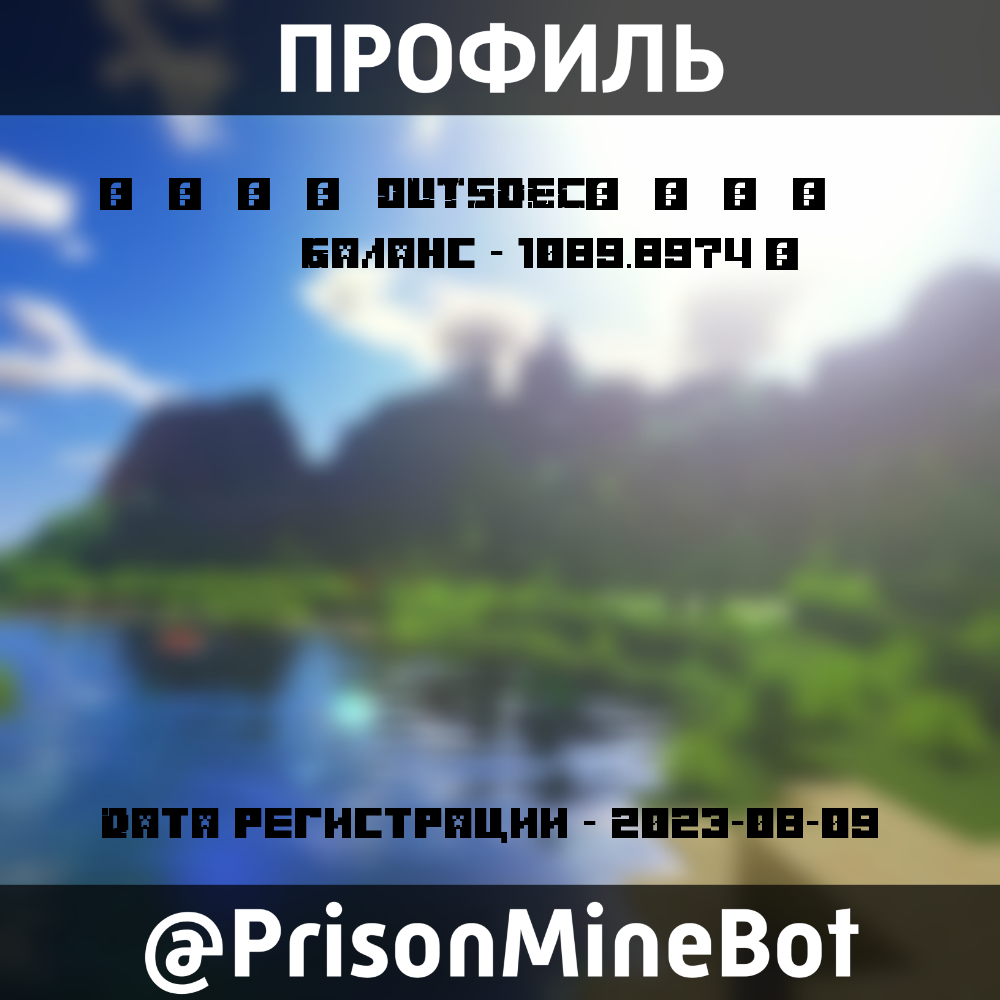
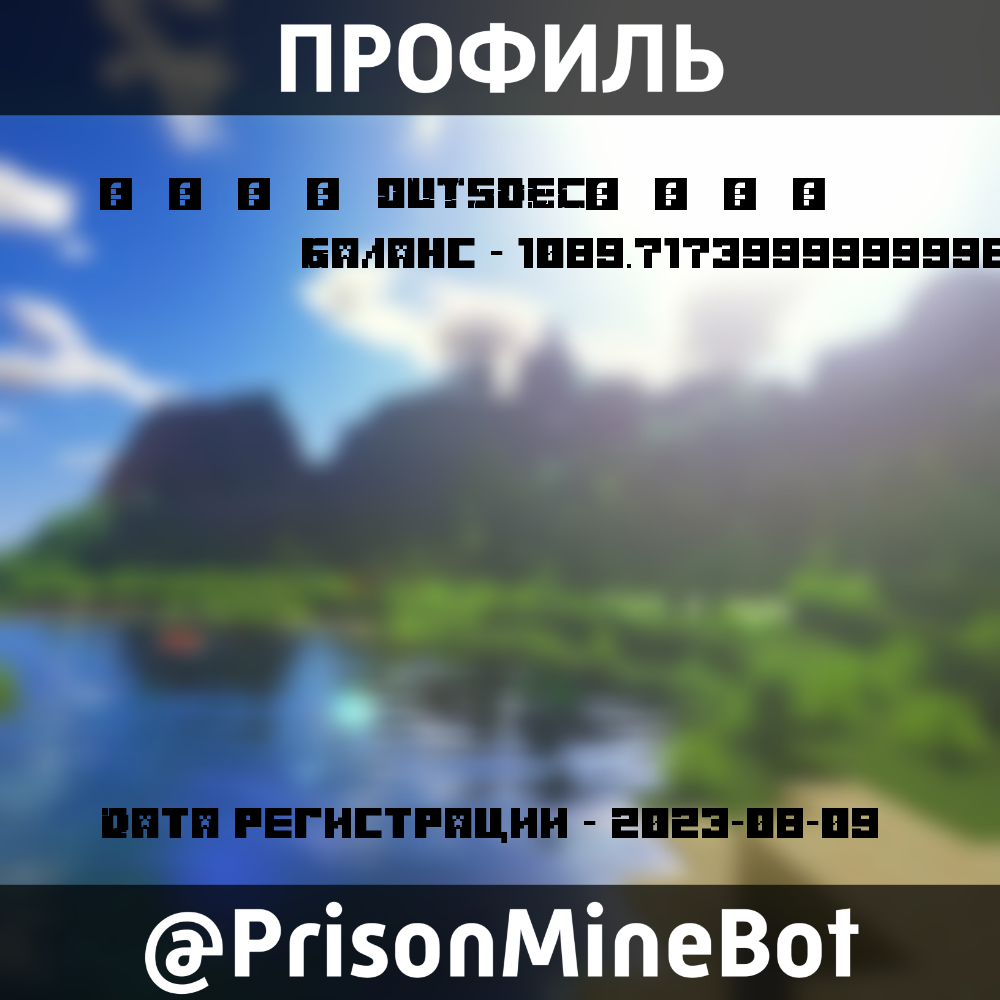
Продолжение разработки

Changed region(s): [[0.62, 0.217, 1.0, 0.279]]

diff --git a/base/bonus.py b/base/bonus.py
@@ -4,35 +4,41 @@ from aiogram.utils.keyboard import InlineKeyboardBuilder
 from aiogram.types import InlineKeyboardButton
 
 from base.diggers import find_user
+from base.stats import botstat
 
 from config_reader import config
+
+bot = Bot(token=config.bot_token.get_secret_value())
 
 from pymongo import MongoClient
 client = MongoClient(config.base_token.get_secret_value())
 db = client["Mineprison"]
 users = db["users"]
 bonuses = db["bonuses"]
+stats = db["stats"]
 
 from datetime import datetime, timedelta
 
 class Bonus:
-    def __init__(self, bonus_id, user_id, clan_id, amount, is_personal, percentage, clan_bonus_id, start_time, duration_minutes):
+    def __init__(self, bonus_id, user_id, clan_id, is_personal, percentage, clan_bonus_id, start_time, duration_minutes):
         self.bonus_id = bonus_id
         self.user_id = user_id
         self.clan_id = clan_id
-        self.amount = amount
         self.is_personal = is_personal
         self.percentage = percentage
         self.clan_bonus_id = clan_bonus_id
         self.start_time = start_time
         self.end_time = start_time + timedelta(minutes=duration_minutes)
 
-async def award_personal_bonus(user_id, amount, percentage, clan_bonus_id=None, duration_minutes=30):
+async def award_personal_bonus(user_id, percentage, clan_bonus_id=None, duration_minutes=30):
     # Логика выдачи личного бонуса
     start_time = datetime.now()
-    bonus = Bonus(bonus_id=None, user_id=user_id, clan_id=None, amount=amount, is_personal=True, percentage=percentage,
+    stat = await botstat()
+    bonus = Bonus(bonus_id=int(stat["bonuses"]) + 1, user_id=user_id, clan_id=None, is_personal=True, percentage=percentage,
                   clan_bonus_id=clan_bonus_id, start_time=start_time, duration_minutes=duration_minutes)
+    stats.update_one({"id": 1}, {"$inc": {"bonuses": 1}})
     bonuses.insert_one(bonus.__dict__)
+    await bot.send_message(user_id, f'БОНУС БОНУС БОНУС ЕБАТЬ БОНУС БОНУС БОНУС ЦЕЛЫХ {percentage}%!!!!!!!!!!!!!!!!!! ПРОДАВАЙ ТЕПЕРЬ ЗА ДОХУЯ РЕСУРСЫ СВОИ')
 
 async def award_clan_bonus(clan_id, amount, percentage, duration_minutes=30):
     # Логика выдачи кланового бонуса
@@ -40,6 +46,7 @@ async def award_clan_bonus(clan_id, amount, percentage, duration_minutes=30):
     clan_bonus_id = "example_clan_bonus_id"
     bonus = Bonus(bonus_id=None, user_id=None, clan_id=clan_id, amount=amount, is_personal=False, percentage=percentage,
                   clan_bonus_id=clan_bonus_id, start_time=start_time, duration_minutes=duration_minutes)
+    stats.update_one({"id": 1}, {"$inc": {"bonuses": 1}})
     bonuses.insert_one(bonus.__dict__)
 
 async def calculate_sale_price(user_id, block_price):
@@ -58,8 +65,8 @@ async def calculate_sale_price(user_id, block_price):
     })
     total_percentage = sum(bonus["percentage"] for bonus in user_bonuses)
     total_bonus = total_percentage / 100 * block_price
-    sale_price = block_price - total_bonus
-    return sale_price
+    sale_price = round(block_price + total_bonus, 4)
+    return total_bonus
 
 # Пример использования
 async def process_sale(message: types.Message):

diff --git a/handlers/all_sale.py b/handlers/all_sale.py
@@ -2,15 +2,19 @@ from aiogram import F, Router, types
 
 from base.diggers import find_user
 from base.stats import botstat
+from base.bonus import calculate_sale_price
 
 from utils.number_format import spaces, spaces_mine
 
 from config_reader import config
+
+from datetime import datetime, timedelta
+
 from pymongo import MongoClient
 client = MongoClient(config.base_token.get_secret_value())
 db = client["Mineprison"]
 users = db["users"]
-
+bonuses = db["bonuses"]
 router = Router()
 
 
@@ -18,6 +22,7 @@ router = Router()
 async def all_sale_items(callback: types.CallbackQuery):
     user_id = callback.from_user.id
     user = await find_user(user_id)
+    current_time = datetime.now()
     blocks = user['blocks']
     stat = await botstat()
     stat_price= stat['prices']
@@ -26,6 +31,16 @@ async def all_sale_items(callback: types.CallbackQuery):
         'sand': 'песка','silicon': 'кремния','overgrown_stone': 'заросшего камня',
         'smooth_stone': 'гладкого камня','resin': 'смолы','amber': 'янтаря',  
         }
+    if user["clan_id"] != 0: 
+        user_clan_id = user["clan_id"]
+    else: 
+        user_clan_id = 0
+    user_bonuses = bonuses.find({
+        "$or": [
+            {"user_id": user_id, "is_personal": True, "start_time": {"$lt": current_time}, "end_time": {"$gt": current_time}},
+            {"clan_id": user_clan_id, "is_personal": False, "start_time": {"$lt": current_time}, "end_time": {"$gt": current_time}}
+        ]
+    })
     response_lines = []
     sand_sale = blocks['sand'] * stat_price['sand']
     silicon_sale = blocks['silicon'] * stat_price['silicon']
@@ -33,8 +48,9 @@ async def all_sale_items(callback: types.CallbackQuery):
     smooth_stone_sale = blocks['smooth_stone'] * stat_price['smooth_stone']
     resin_sale = blocks['resin'] * stat_price['resin']
     amber_sale = blocks['amber'] * stat_price['amber']
-    all_sum = round(sand_sale + silicon_sale + overgrown_stone_sale + smooth_stone_sale + resin_sale + amber_sale, 4)
-    
+    sell_sum = round(sand_sale + silicon_sale + overgrown_stone_sale + smooth_stone_sale + resin_sale + amber_sale, 4)
+    bonus_sum = await calculate_sale_price(user_id, sell_sum)
+    all_sum = round(sell_sum + bonus_sum, 4)
     response = "💱 Продажа блоков:\n\n"
     for block_name in block_names:
         block_count = blocks[block_name]
@@ -44,6 +60,7 @@ async def all_sale_items(callback: types.CallbackQuery):
                 f"💲 Вы успешно продали {spaces_mine(block_count)} шт. {resource_rusification.get(block_name)} на сумму {spaces(block_sale)} монет."
             )
     response += "\n".join(response_lines)
+    response += f"\n\n🌟 С учётом всех бонусов ({sum(bonus['percentage'] for bonus in user_bonuses)}%) к сумме добавлено {spaces(bonus_sum)} монеток\n"
     response += f"\n💰 За продажу блоков вы заработали {spaces(all_sum)} монеток"
     users.update_one(
     {'_id': user_id},

diff --git a/handlers/mines.py b/handlers/mines.py
@@ -1,4 +1,4 @@
-from aiogram import F, Router, types
+from aiogram import F, Router, types, Bot
 from aiogram.types import InlineKeyboardButton
 from aiogram.utils.keyboard import InlineKeyboardBuilder
 
@@ -9,6 +9,7 @@ from datetime import datetime
 
 from base.diggers import find_user, user_exp
 from base.mines import find_mines
+from base.bonus import award_personal_bonus
 
 from utils.number_format import spaces_mine
 
@@ -43,7 +44,7 @@ async def minemenu(callback: types.CallbackQuery):
 
 
 @router.callback_query(F.data.startswith('dig_'))
-async def minemenu(callback: types.CallbackQuery):
+async def minemenu(callback: types.CallbackQuery, bot: Bot):
     if callback.data and callback.data.startswith("dig_"):
         print(callback.data)
         code = callback.data[-1:]
@@ -53,6 +54,7 @@ async def minemenu(callback: types.CallbackQuery):
         user = await find_user(user_id)
         items = user['inventory']
         chance_attack = randint(1, 100)
+        chance_bonus = random.uniform(0, 1)
         num = randint(1, 100)
         if not items:
             await callback.answer(text="У вас нет предметов в инвентаре!", show_alert=True)
@@ -63,6 +65,8 @@ async def minemenu(callback: types.CallbackQuery):
                     mines = await find_mines(code)
                     resource = item["level"]
                     await user_exp(user_id, resource)
+                    if chance_bonus <= 0.02:
+                        await award_personal_bonus(user_id, 30)
                     if chance_attack == 69:
                         await callback.answer(f'Вас пизданула ебанутая ящерица, минус 1 хп.', show_alert = True)
                         users.update_one({'_id': user_id}, {"$inc": {"health.now": -1}})
@@ -88,6 +92,8 @@ async def minemenu(callback: types.CallbackQuery):
                     mines = await find_mines(code)
                     resource = item["level"]
                     await user_exp(user_id, resource)
+                    if chance_bonus <= 0.02:
+                        await award_personal_bonus(user_id, 30)
                     if chance_attack == 69:
                         await callback.answer(f'Вам на голову упал бешенный камень, минус 1 хп.', show_alert = True)
                         users.update_one({'_id': user_id}, {"$inc": {"health.now": -1}})

diff --git a/bot.py b/bot.py
@@ -1,17 +1,22 @@
 from aiogram import F, Bot, Dispatcher, types
 from aiogram.enums import ContentType
+
 import asyncio
 from datetime import datetime, timedelta
+
 from handlers import start, profile, minemenu, mines, leaderboard, nickname, donate, inventory, stats, all_sale, \
     newsletter, eval, shop, clans, cases, referal
+
 import logging
 import motor.motor_asyncio
+
 from config_reader import config
 
 client = motor.motor_asyncio.AsyncIOMotorClient(config.base_token.get_secret_value())
 db = client["Mineprison"]
 users = db["users"]
 miners = db["mines"]
+stats_bd = db["stats"]
 
 logging.basicConfig(level=logging.INFO)
 logging.basicConfig(level=logging.INFO, filename='bot.log',
